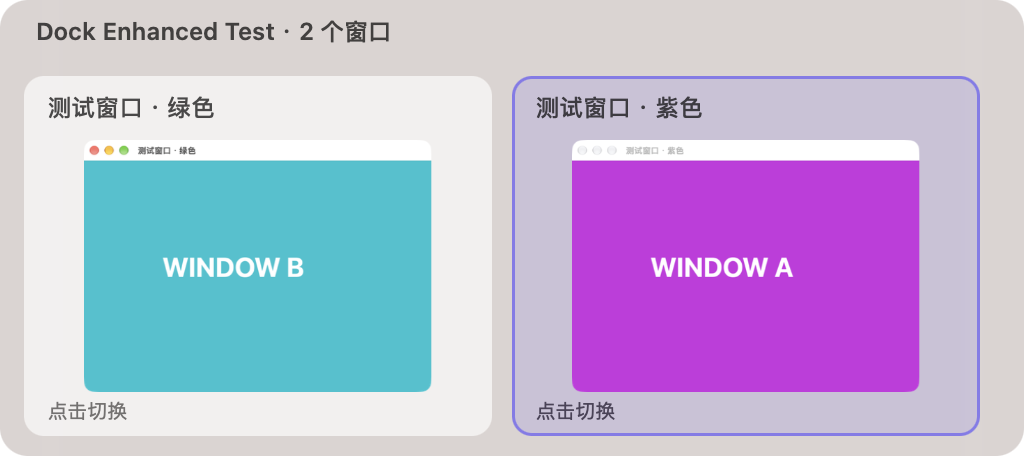
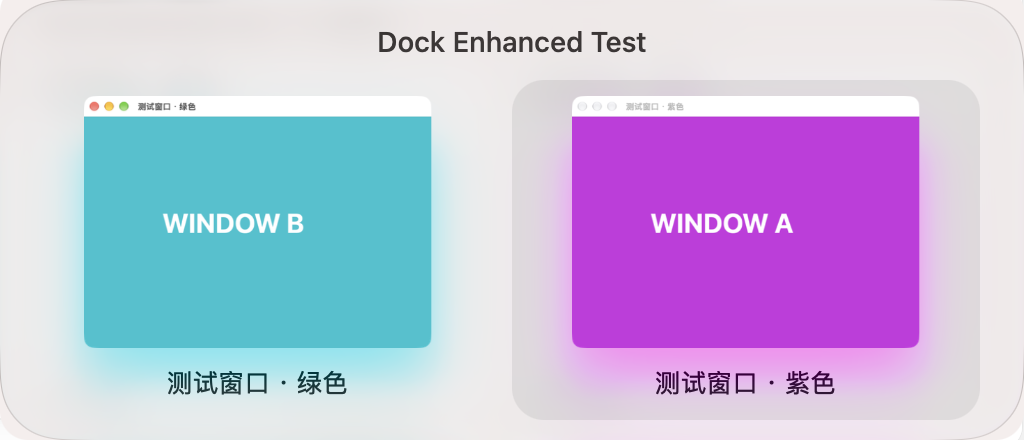
Use native glass for minimal window previews with neutral hover feedback

diff --git a/Sources/DockEnhanced/PreviewPanel.swift b/Sources/DockEnhanced/PreviewPanel.swift
@@ -13,7 +13,6 @@ final class PreviewCard: NSButton {
     private(set) var snapshot: AppWindow
     private let thumbnail = NSImageView()
     private let name = NSTextField(labelWithString: "")
-    private let detail = NSTextField(labelWithString: "")
     var selected: ((AppWindow) -> Void)?
     private var hoverTracking: NSTrackingArea?
     private var highlightedByPointer = false
@@ -23,26 +22,22 @@ final class PreviewCard: NSButton {
         super.init(frame: frame)
         title = ""
         isBordered = false
+        focusRingType = .none
         wantsLayer = true
-        layer?.cornerRadius = 10
-        layer?.backgroundColor = NSColor.controlBackgroundColor.withAlphaComponent(0.65).cgColor
-        layer?.borderWidth = 1.5
-        layer?.borderColor = NSColor.clear.cgColor
-        thumbnail.frame = CGRect(x: 8, y: 32, width: frame.width - 16, height: 126)
+        layer?.cornerRadius = 16
+        layer?.backgroundColor = NSColor.clear.cgColor
+        thumbnail.frame = CGRect(x: 8, y: 8, width: frame.width - 16, height: 126)
         thumbnail.imageScaling = .scaleProportionallyUpOrDown
         thumbnail.wantsLayer = true
         thumbnail.layer?.cornerRadius = 6
         thumbnail.layer?.masksToBounds = true
         addSubview(thumbnail)
         name.stringValue = window.title
-        name.frame = CGRect(x: 10, y: 8, width: frame.width - 20, height: 18)
-        name.font = .systemFont(ofSize: 12, weight: .medium)
+        name.frame = CGRect(x: 10, y: 143, width: frame.width - 20, height: 20)
+        name.font = .systemFont(ofSize: 13)
+        name.alignment = .center
         name.lineBreakMode = .byTruncatingTail
         addSubview(name)
-        detail.frame = CGRect(x: 10, y: 161, width: frame.width - 20, height: 16)
-        detail.font = .systemFont(ofSize: 10)
-        detail.textColor = .secondaryLabelColor
-        addSubview(detail)
         target = self
         action = #selector(selectWindow)
         setAccessibilityLabel(window.title)
@@ -64,14 +59,16 @@ final class PreviewCard: NSButton {
 
     private func updateHighlight() {
         guard let layer else { return }
-        let color = highlightedByPointer ? NSColor.systemIndigo.withAlphaComponent(0.14) : NSColor.controlBackgroundColor.withAlphaComponent(0.65)
+        var color = NSColor.clear.cgColor
+        effectiveAppearance.performAsCurrentDrawingAppearance {
+            color = highlightedByPointer ? NSColor.labelColor.withAlphaComponent(0.07).cgColor : NSColor.clear.cgColor
+        }
         let animation = CABasicAnimation(keyPath: "backgroundColor")
         animation.fromValue = layer.presentation()?.backgroundColor ?? layer.backgroundColor
-        animation.toValue = color.cgColor
+        animation.toValue = color
         animation.duration = NSWorkspace.shared.accessibilityDisplayShouldReduceMotion ? 0 : 0.12
         layer.add(animation, forKey: "pointerHighlight")
-        layer.backgroundColor = color.cgColor
-        layer.borderColor = highlightedByPointer ? NSColor.systemIndigo.withAlphaComponent(0.65).cgColor : NSColor.clear.cgColor
+        layer.backgroundColor = color
     }
 
     override func hitTest(_ point: NSPoint) -> NSView? {
@@ -80,8 +77,8 @@ final class PreviewCard: NSButton {
 
     func update(image: NSImage?, icon: NSImage?) {
         thumbnail.image = image ?? icon
-        detail.stringValue = snapshot.state.minimized ? (image == nil ? "已最小化 · 点击恢复" : "已最小化 · 缓存画面") : (image == nil ? "点击切换窗口" : "点击切换")
-        setAccessibilityHelp(detail.stringValue)
+        let help = snapshot.state.minimized ? (image == nil ? "已最小化 · 点击恢复" : "已最小化 · 缓存画面") : "点击切换窗口"
+        setAccessibilityHelp(help)
     }
 
     func update(snapshot: AppWindow, image: NSImage?, icon: NSImage?) {
@@ -129,7 +126,7 @@ final class PreviewPanel {
         let screen = NSScreen.screens.first(where: { $0.frame.contains(CGPoint(x: anchor.midX, y: anchor.midY)) }) ?? NSScreen.main
         let available = screen?.visibleFrame ?? CGRect(x: 0, y: 0, width: 1200, height: 800)
         let width = min(CGFloat(windows.count) * 244 + 24, available.width - 24)
-        let size = CGSize(width: max(180, width), height: 228)
+        let size = CGSize(width: max(180, width), height: 220)
         var position = CGPoint(x: anchor.midX - size.width / 2, y: anchor.maxY + 10)
         let full = screen?.frame ?? available
         if anchor.midX - full.minX < 100 {
@@ -140,24 +137,19 @@ final class PreviewPanel {
         position.x = min(max(position.x, available.minX + 8), available.maxX - size.width - 8)
         position.y = min(max(position.y, available.minY + 8), available.maxY - size.height - 8)
         panel.setFrame(CGRect(origin: position, size: size), display: false)
-        let background = NSVisualEffectView(frame: CGRect(origin: .zero, size: size))
-        background.material = .hudWindow
-        background.blendingMode = .behindWindow
-        background.state = .active
-        background.wantsLayer = true
-        background.layer?.cornerRadius = 14
-        background.layer?.masksToBounds = true
-        let header = NSTextField(labelWithString: "\(item.app.localizedName ?? "应用") · \(windows.count) 个窗口")
-        header.font = .systemFont(ofSize: 12, weight: .semibold)
-        header.frame = CGRect(x: 16, y: 202, width: size.width - 32, height: 18)
-        background.addSubview(header)
-        let scroll = NSScrollView(frame: CGRect(x: 12, y: 10, width: size.width - 24, height: 184))
+        let content = NSView(frame: CGRect(origin: .zero, size: size))
+        let header = NSTextField(labelWithString: item.app.localizedName ?? "应用")
+        header.font = .systemFont(ofSize: 14, weight: .medium)
+        header.alignment = .center
+        header.frame = CGRect(x: 20, y: 188, width: size.width - 40, height: 20)
+        content.addSubview(header)
+        let scroll = NSScrollView(frame: CGRect(x: 12, y: 10, width: size.width - 24, height: 170))
         scroll.drawsBackground = false
         scroll.hasHorizontalScroller = CGFloat(windows.count) * 244 > scroll.frame.width
         scroll.autohidesScrollers = true
-        let document = NSView(frame: CGRect(x: 0, y: 0, width: CGFloat(windows.count) * 244, height: 180))
+        let document = NSView(frame: CGRect(x: 0, y: 0, width: CGFloat(windows.count) * 244, height: 170))
         cards = windows.enumerated().map { index, window in
-            let card = PreviewCard(window: window, frame: CGRect(x: CGFloat(index) * 244, y: 0, width: 234, height: 180))
+            let card = PreviewCard(window: window, frame: CGRect(x: CGFloat(index) * 244, y: 0, width: 234, height: 170))
             card.selected = { [weak self] selectedWindow in
                 self?.onSelect?(selectedWindow, item.app)
                 self?.hide()
@@ -167,8 +159,8 @@ final class PreviewPanel {
             return card
         }
         scroll.documentView = document
-        background.addSubview(scroll)
-        panel.contentView = background
+        content.addSubview(scroll)
+        panel.contentView = makeBackground(content: content)
         let finalFrame = panel.frame
         if !wasPresented {
             panel.alphaValue = 0
@@ -183,6 +175,25 @@ final class PreviewPanel {
             panel.animator().alphaValue = 1
             panel.animator().setFrame(finalFrame, display: true)
         }
+    }
+
+    private func makeBackground(content: NSView) -> NSView {
+        if #available(macOS 26.0, *) {
+            let glass = NSGlassEffectView(frame: content.frame)
+            glass.style = .regular
+            glass.cornerRadius = 32
+            glass.contentView = content
+            return glass
+        }
+        let blur = NSVisualEffectView(frame: content.frame)
+        blur.material = .popover
+        blur.blendingMode = .behindWindow
+        blur.state = .active
+        blur.wantsLayer = true
+        blur.layer?.cornerRadius = 32
+        blur.layer?.masksToBounds = true
+        blur.addSubview(content)
+        return blur
     }
 
     func updateImages(_ images: PreviewImages) {

diff --git a/Sources/DockEnhanced/Diagnostics.swift b/Sources/DockEnhanced/Diagnostics.swift
@@ -177,12 +177,17 @@ final class NativeIntegrationCheck {
 
     @MainActor private func savePreview() async throws {
         let content = try await SCShareableContent.excludingDesktopWindows(true, onScreenWindowsOnly: false)
-        guard let window = content.windows.first(where: { $0.windowID == CGWindowID(service.preview.panel.windowNumber) }) else { return }
+        let panelFrame = service.preview.panel.frame
+        let captureFrame = CGRect(origin: quartzPoint(CGPoint(x: panelFrame.minX, y: panelFrame.maxY)), size: panelFrame.size)
+        guard let display = content.displays.first(where: { $0.frame.contains(CGPoint(x: captureFrame.midX, y: captureFrame.midY)) }) else { return }
         let config = SCStreamConfiguration()
-        config.width = Int(service.preview.panel.frame.width * 2)
-        config.height = Int(service.preview.panel.frame.height * 2)
+        config.width = Int(panelFrame.width * 2)
+        config.height = Int(panelFrame.height * 2)
+        config.sourceRect = captureFrame.offsetBy(dx: -display.frame.minX, dy: -display.frame.minY)
         config.showsCursor = false
-        let image = try await SCScreenshotManager.captureImage(contentFilter: SCContentFilter(desktopIndependentWindow: window), configuration: config)
+        // Capture only the displayed panel bounds so native glass includes its actual
+        // composited backdrop; isolated-window captures flatten the glass to gray.
+        let image = try await SCScreenshotManager.captureImage(contentFilter: SCContentFilter(display: display, excludingWindows: []), configuration: config)
         let bitmap = NSBitmapImageRep(cgImage: image)
         try bitmap.representation(using: .png, properties: [:])?.write(to: URL(fileURLWithPath: "/tmp/dock-enhanced-preview.png"))
     }

diff --git a/.scratch/preview-glass/spec.md b/.scratch/preview-glass/spec.md
@@ -1,0 +1,24 @@
+# Minimal glass window previews
+
+Status: ready-for-agent
+
+Baseline: 17e780a
+
+## Request
+
+Use the supplied competitor screenshot as a visual reference: a single translucent glass surface, centered application name, window thumbnails with centered titles, and subtle neutral hover feedback without a purple border.
+
+## Implementation
+
+- Use native `NSGlassEffectView` on macOS 26 and later, with a 32-point corner radius and regular untinted glass. Older systems keep a native popover blur fallback.
+- Remove individual card backgrounds and the repeated click/status text; preserve the information in accessibility help.
+- Center the application name and each window title. Keep existing preview transitions, cached thumbnails, and exact-window selection.
+- Hover uses a short neutral translucent fill, with no colored outline or focus ring.
+
+## Validation
+
+Build and run the existing native two-window integration check, inspect the rendered preview screenshot, and package the updated application.
+
+Results: native two-window integration passed, including menu suppression, exact-window selection, minimize/restore, and cached previews. The composited preview screenshot was visually inspected: native glass edge and backdrop, centered title, captions below thumbnails, and neutral hover fill without a colored border. Saved to `docs/images/preview.png`.
+
+API: [Apple NSGlassEffectView](https://developer.apple.com/documentation/appkit/nsglasseffectview), verified against the installed AppKit SDK headers.

diff --git a/README.md b/README.md
@@ -16,7 +16,7 @@
 | 悬停约 0.85 秒（可调） | 显示该应用的窗口预览 |
 | 点击缩略图 | 恢复并切换到对应窗口 |
 
-预览卡片悬停时高亮，预览出现和消失采用短暂淡入淡出。系统开启“减少动态效果”时会减少位移动效。点击或右键后，同一图标的预览保持关闭，移开鼠标再悬停才重新出现。设置页可调整预览停留时间。
+预览使用简约玻璃面板，macOS 26 及以上采用原生 Liquid Glass，较早系统使用毛玻璃。应用名和窗口标题居中显示，悬停只增加柔和的明暗反馈，没有彩色边框。预览出现和消失采用短暂淡入淡出。系统开启“减少动态效果”时会减少位移动效。点击或右键后，同一图标的预览保持关闭，移开鼠标再悬停才重新出现。设置页可调整预览停留时间。
 
 菜单栏提供“启用”“设置”和“退出”。点击其他窗口或进行键盘操作后，下次 Dock 点击重新以最近使用的窗口为目标。仅观察是否发生键盘操作，不读取按键或文字。带修饰键的点击、右键菜单及拖动图标沿用系统操作。
 
